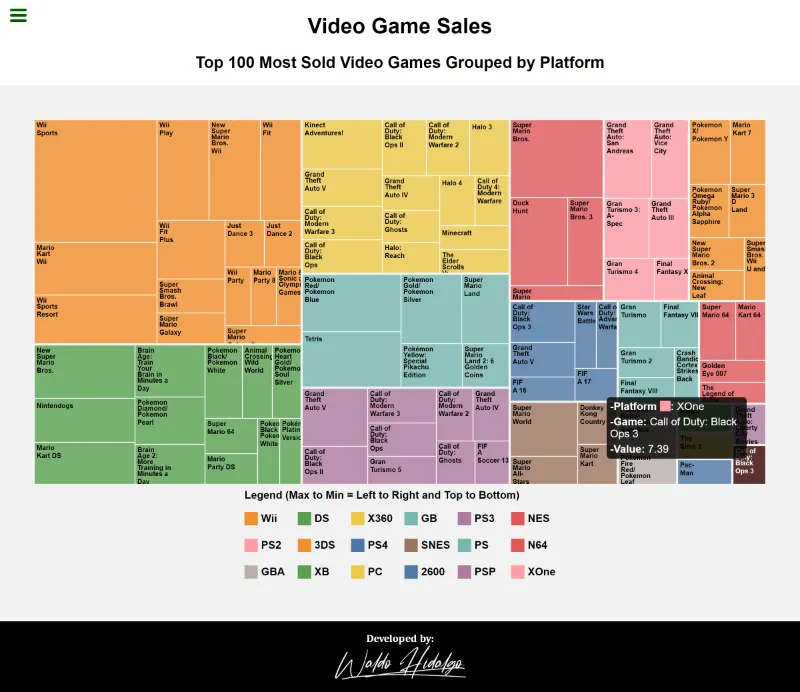
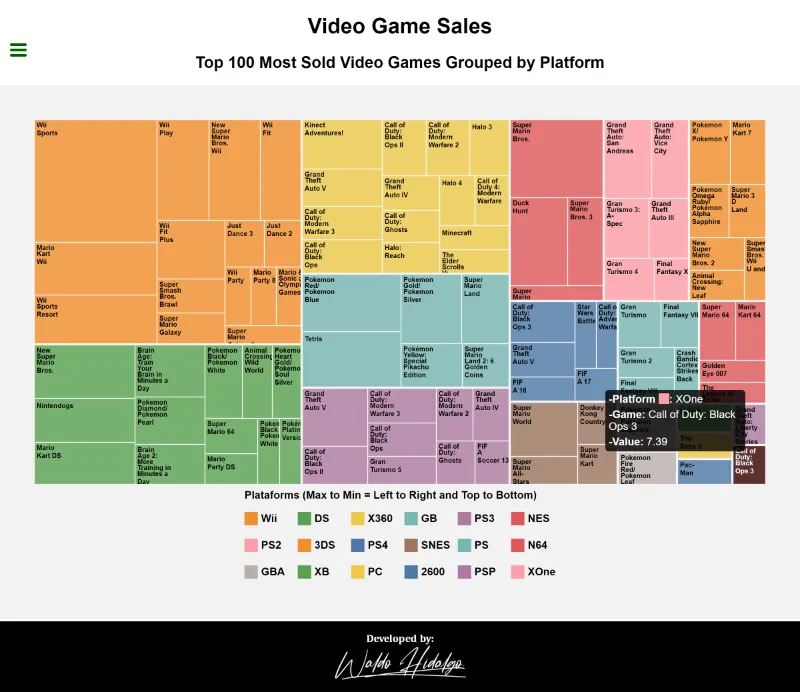
update images

diff --git a/assets/js/index.js b/assets/js/index.js
@@ -192,7 +192,7 @@ document.addEventListener("DOMContentLoaded", async () => {
     .attr("class", "legend-title")
     .attr("x", 0)
     .attr("y", -10)
-    .text("Legend (Max to Min = Left to Right and Top to Bottom)")
+    .text("Plataforms (Max to Min = Left to Right and Top to Bottom)")
     .style("font-weight", "bold");
   // agregar contenedor g de categorias a legenda mostrando 6 categorias por columna
 
